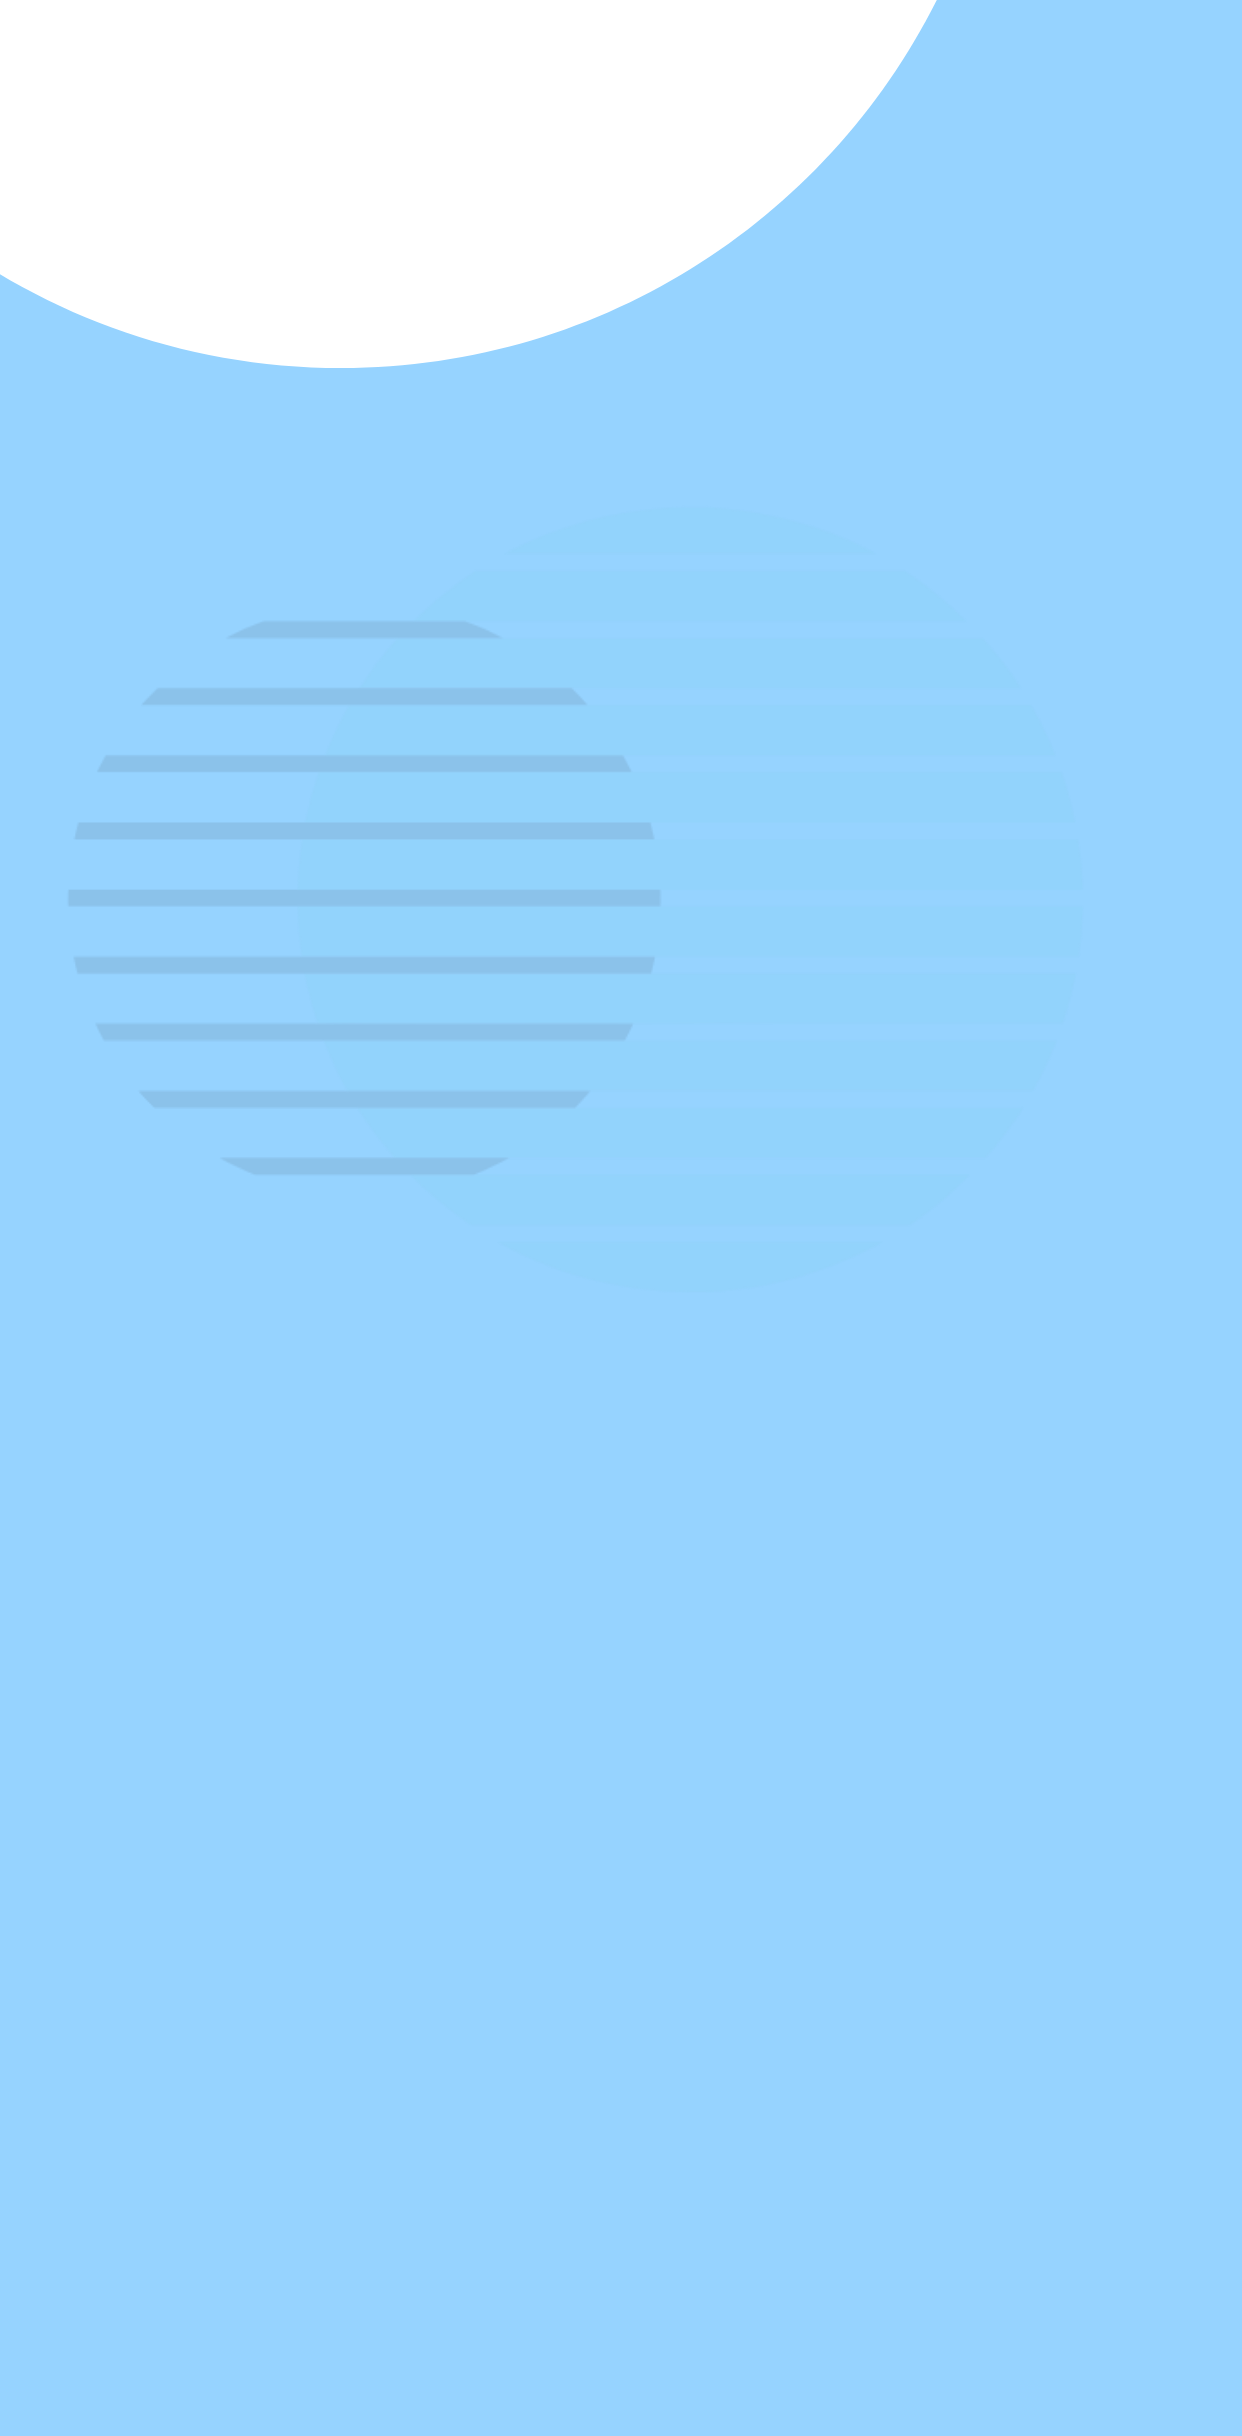
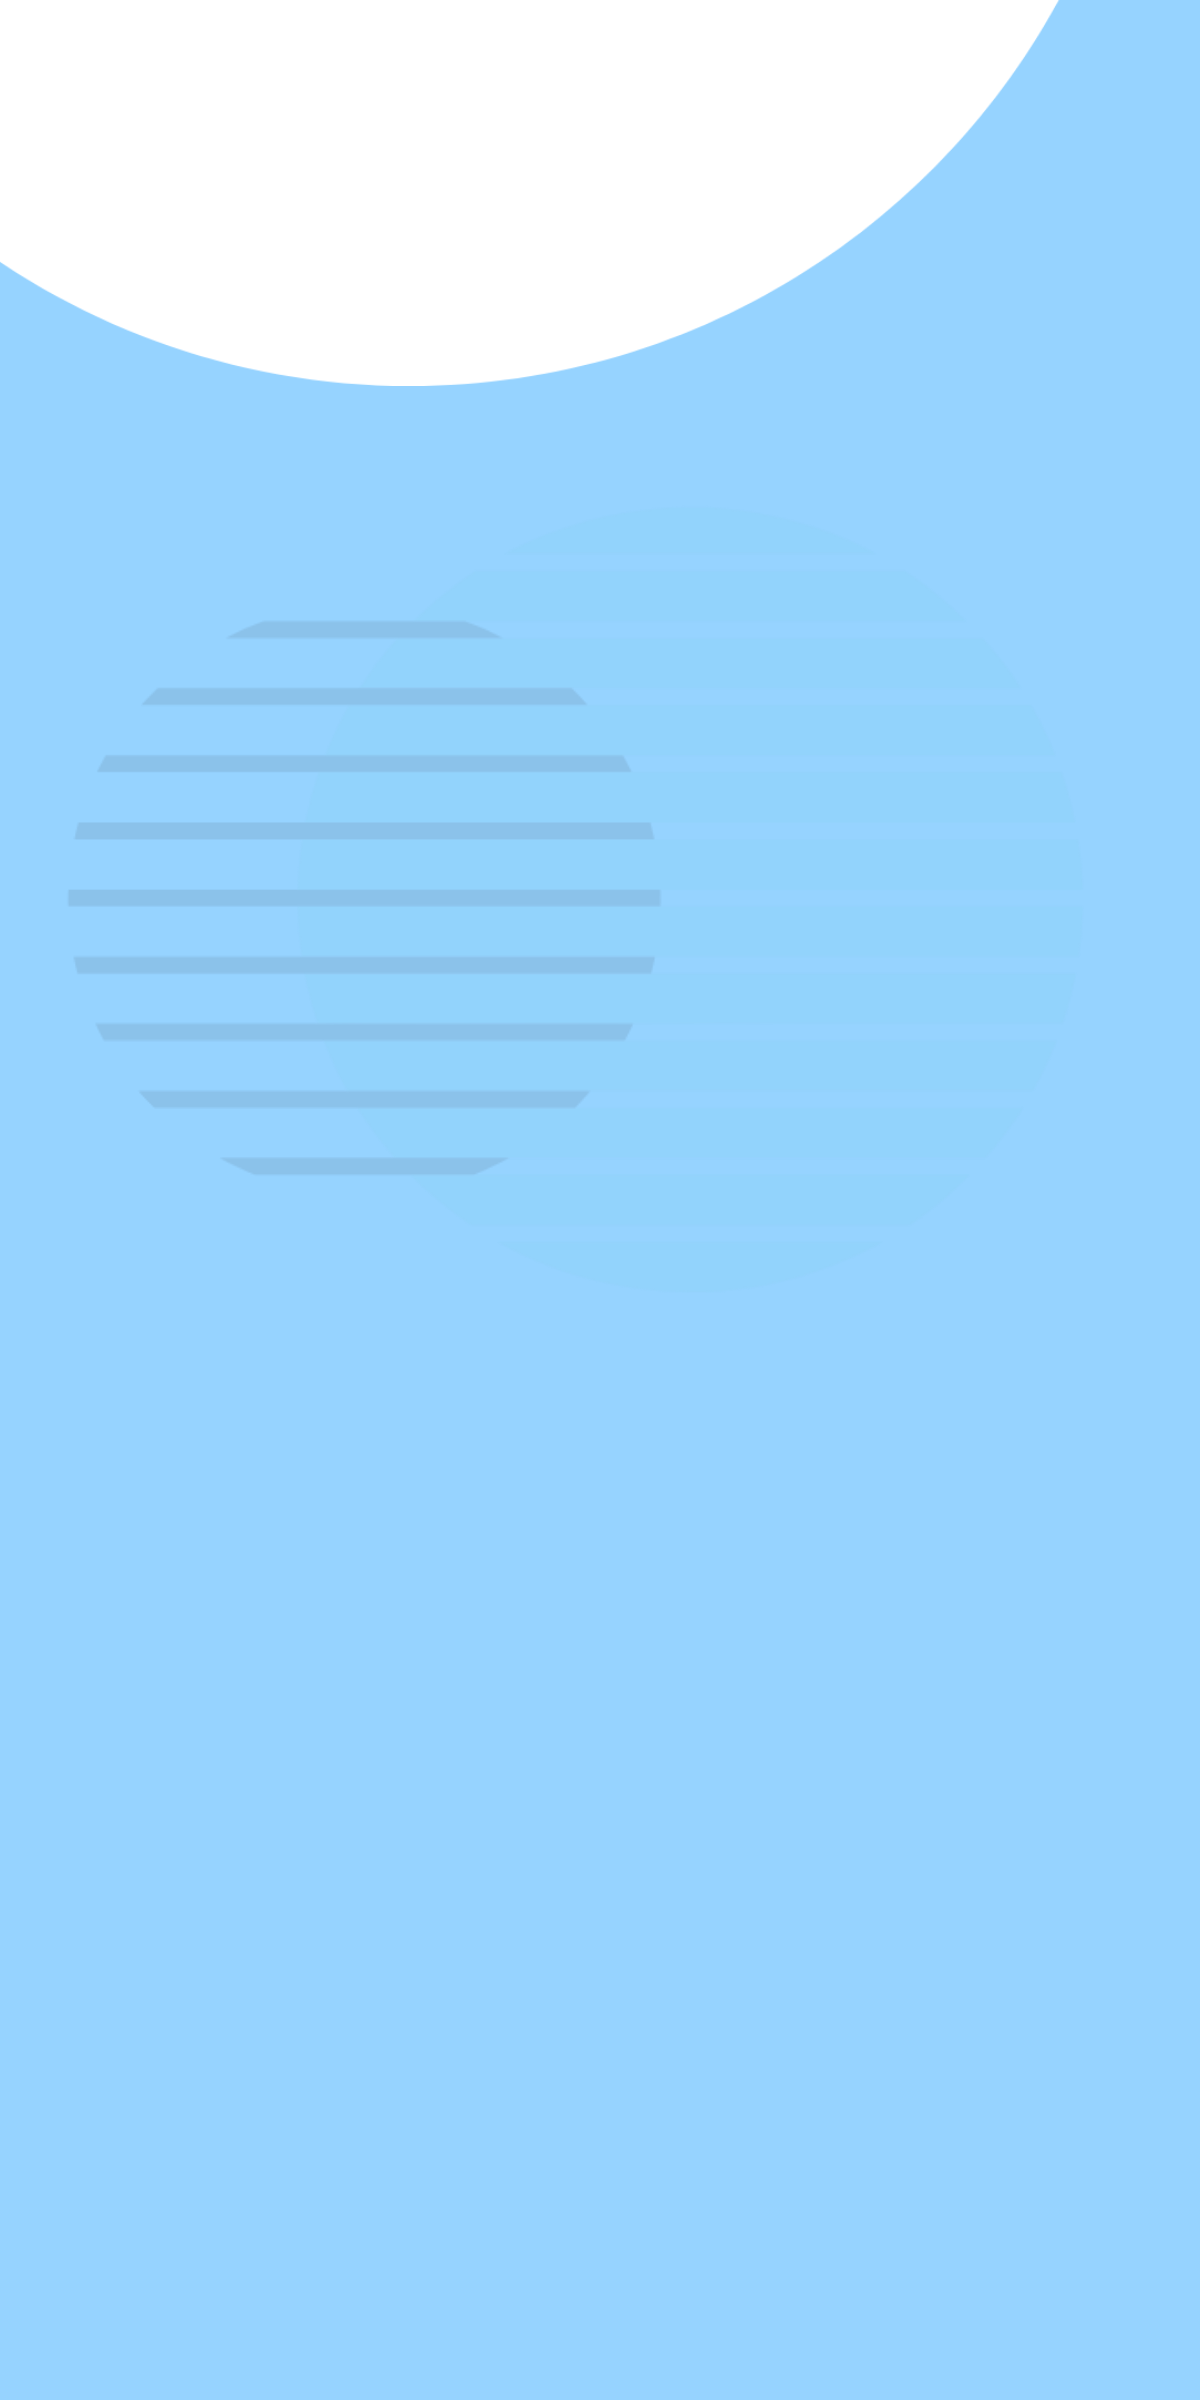
update

Changed region(s): [[0.1542, 0.0, 0.8942, 0.1875], [0.0, 0.0938, 0.0308, 0.125]]

diff --git a/src/screen/loginScreen/styles.js b/src/screen/loginScreen/styles.js
@@ -10,7 +10,7 @@ export const styles = StyleSheet.create({
         alignItems: 'center'
     },
     textColor: {
-        fontSize: 30,
+        fontSize: 35,
         color: '#FFF',
         fontWeight: 'bold',
     },
@@ -18,22 +18,22 @@ export const styles = StyleSheet.create({
         flex: 1,
         resizeMode: 'stretch',
         width: width,
-        height: height + 10,
+        height: height * 1.1
     },
     boxView: {
         width: width / 2 + 170,
-        height: height - 500,
+        height: height - 480,
         borderRadius: 20,
         backgroundColor: '#FFFFFF',
         alignItems: 'center',
-        marginTop: height - 700
+        marginTop: 20
     },
     loginBtn: {
         flexDirection: 'row',
         width: width - 70,
         backgroundColor: "#FFFFFF",
         borderRadius: 50,
-        height: height / 15,
+        height: height - 640,
         alignItems: "center",
         justifyContent: 'center',
         //borderColor: '#7AD2DB',
@@ -50,7 +50,7 @@ export const styles = StyleSheet.create({
         //backgroundColor: "#46A1A9",
         backgroundColor: "#96D3FF",
         borderRadius: 50,
-        height: height / 15,
+        height: height - 640,
         alignItems: "center",
         justifyContent: 'center',
     },
@@ -66,13 +66,13 @@ export const styles = StyleSheet.create({
     createText: {
         color: '#FFFFFF',
         fontSize: 15,
-        marginTop: height - 670,
+        marginTop: height - 650,
         fontWeight: 'bold'
     },
     imageView: {
-        height: 250,
-        width: 250,
-        marginLeft: -15,
-        marginTop: height - 800,
+        height: 240,
+        width: 240,
+        marginLeft: 10,
+        marginTop: height - 760,
     }
 })
